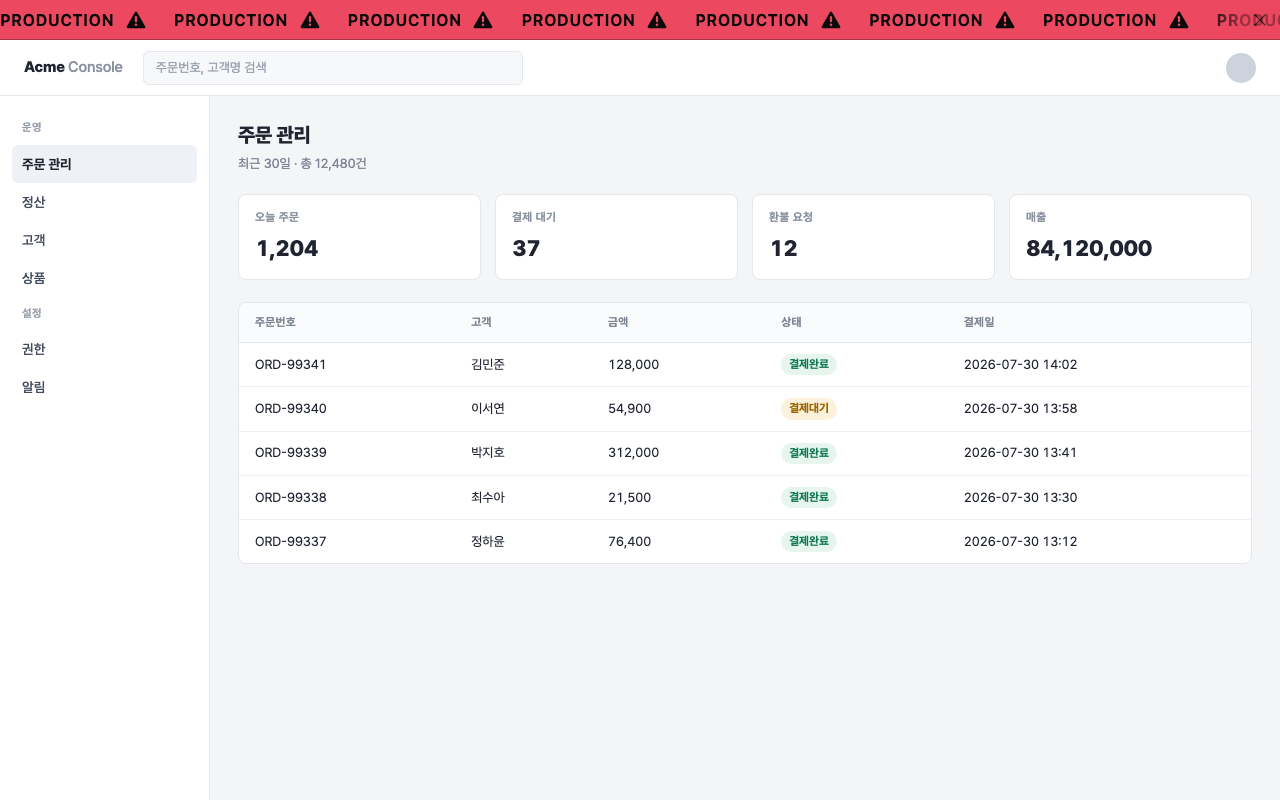
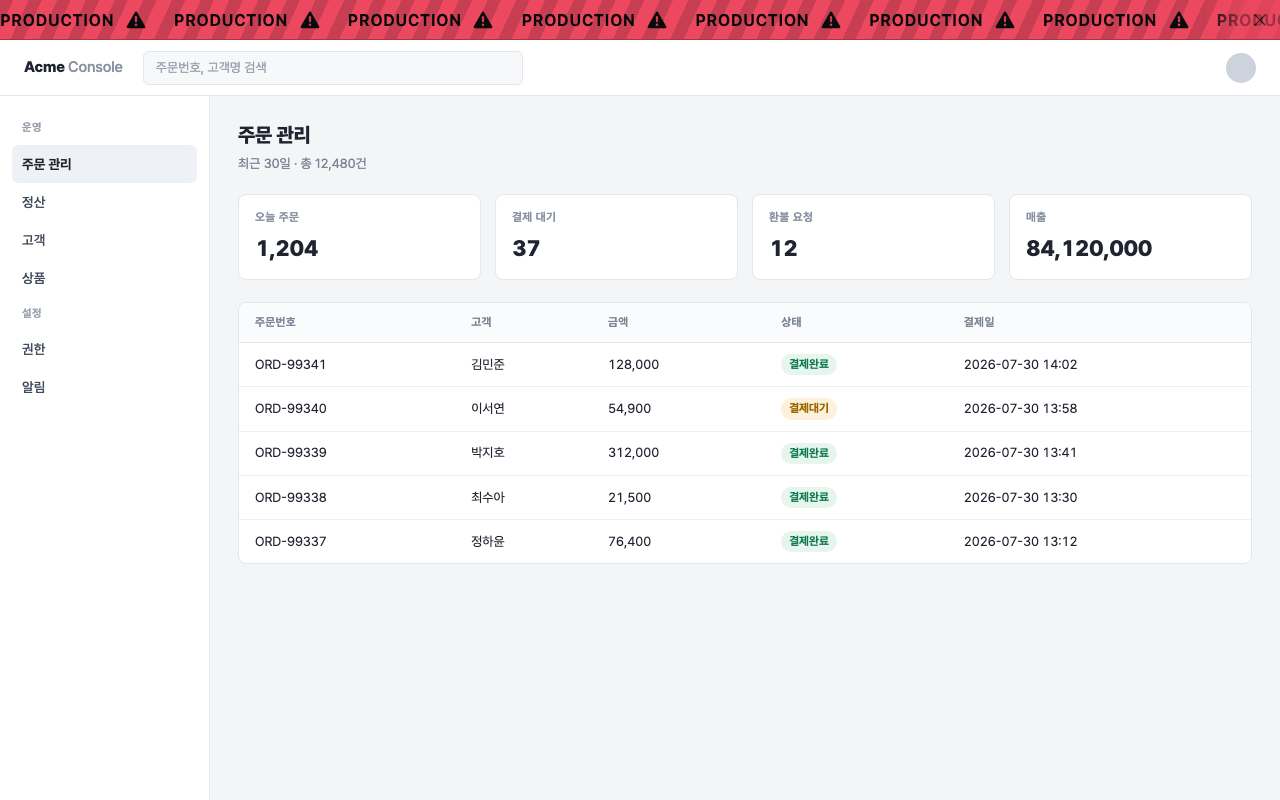
기본값 조정: 배너 높이 40·폰트 16, 사선 패턴 기본 적용, 경고 아이콘 채움형 교체
- 기본 패턴 추가: LOCAL 에 local.* / local-* / *-local.*, DEVELOPMENT 에 dev-*
- 경고 아이콘을 채움형 삼각형으로 교체 (mask 로 느낌표를 뚫어 배경색이 비침)
- 패턴 매칭 유닛 테스트 추가 (test/match.test.js, 43+14 케이스)
- 스토어 스크린샷·프로모 타일을 새 기본값으로 재생성

Changed region(s): [[0.0, 0.0, 0.9688, 0.0625]]

diff --git a/test/match.test.js b/test/match.test.js
@@ -1,0 +1,116 @@
+/*
+ * URL 패턴 매칭 유닛 테스트.
+ * 실행: node test/match.test.js
+ */
+const path = require('path');
+const LIB = path.join(__dirname, '..', 'src', 'lib');
+
+require(path.join(LIB, 'defaults.js'));
+require(path.join(LIB, 'match.js'));
+
+const M = globalThis.EnvBannerMatch;
+const D = globalThis.EnvBannerDefaults;
+
+let fail = 0;
+
+function expectMatch(pattern, url, expected) {
+  const got = M.testPattern(url, pattern);
+  const ok = got === expected;
+  if (!ok) fail++;
+  console.log(`${ok ? 'PASS' : 'FAIL'}  ${pattern.padEnd(24)} ${url.padEnd(40)} → ${got}`);
+}
+
+function expectEnv(url, expected) {
+  const found = M.find(url, D.DEFAULT_ENVIRONMENTS);
+  const label = found ? found.env.label : null;
+  const ok = label === expected;
+  if (!ok) fail++;
+  console.log(
+    `${ok ? 'PASS' : 'FAIL'}  ${url.padEnd(44)} → ${String(label)}` +
+      (ok ? '' : `  (기대 ${expected})`)
+  );
+}
+
+console.log('── 패턴 문법 ──');
+[
+  ['localhost', 'http://localhost:3000/app', true],
+  ['localhost', 'https://localhost/', true],
+  ['localhost', 'http://localhost', true],
+  ['localhost', 'https://mylocalhost.com/', false],
+  ['localhost', 'https://localhost.evil.com/', false],
+  ['localhost:3000', 'http://localhost:3000/x', true],
+  ['localhost:3000', 'http://localhost:3001/x', false],
+  ['127.0.0.1', 'http://127.0.0.1:8080/', true],
+  ['127.0.0.1', 'http://127.0.0.15/', false],
+  ['*.localhost', 'http://api.localhost:3000/', true],
+  ['*.localhost', 'http://localhost:3000/', true],
+
+  // local 계열 — 하이픈 위치별
+  ['local.*', 'https://local.acme.com/', true],
+  ['local.*', 'http://localhost:3000/', false],
+  ['local.*', 'https://mylocal.acme.com/', false],
+  ['local-*', 'https://local-api.acme.com/', true],
+  ['local-*', 'http://localhost/', false],
+  ['*-local.*', 'https://admin-local.acme.com/', true],
+  ['*-local.*', 'https://local.acme.com/', false],
+
+  // dev 계열
+  ['dev.*', 'https://dev.acme.com/', true],
+  ['dev.*', 'https://develop.acme.com/', false],
+  ['dev.*', 'https://api.dev.acme.com/', false],
+  ['dev-*', 'https://dev-api.acme.com/', true],
+  ['dev-*', 'https://dev.acme.com/', false],
+  ['*-dev.*', 'https://api-dev.acme.com/', true],
+  ['*.dev.*', 'https://api.dev.acme.com/', true],
+  ['*.dev.*', 'https://dev.acme.com/', true],
+  // 끝이 * 인 패턴은 뒤에 무엇이 붙어도 매칭된다 (열린 패턴의 성질)
+  ['*.dev.*', 'https://dev.acme.com.evil.io/', true],
+  // 끝까지 적으면 서픽스가 붙은 유사 도메인을 막는다
+  ['*.dev.acme.com', 'https://api.dev.acme.com/', true],
+  ['*.dev.acme.com', 'https://dev.acme.com.evil.io/', false],
+
+  // scheme·경로·정규식
+  ['https://example.com/admin/*', 'https://example.com/admin/users', true],
+  ['https://example.com/admin/*', 'https://example.com/', false],
+  ['https://example.com/admin/*', 'http://example.com/admin/users', false],
+  ['example.com/admin/*', 'http://example.com/admin/users', true],
+  ['acme.co.kr', 'https://acme.co.kr/', true],
+  ['acme.co.kr', 'https://www.acme.co.kr/', false],
+  ['*.acme.co.kr', 'https://www.acme.co.kr/', true],
+  ['/^https:\\/\\/\\w+\\.corp\\./', 'https://intra.corp.acme/', true],
+  ['/^https:\\/\\/\\w+\\.corp\\./', 'http://intra.corp.acme/', false]
+].forEach((c) => expectMatch(c[0], c[1], c[2]));
+
+console.log('');
+console.log('── 기본 환경 매칭 (배열 순서 = 우선순위) ──');
+[
+  ['http://localhost:5173/', 'LOCAL'],
+  ['http://127.0.0.1:8000/', 'LOCAL'],
+  ['https://local.acme.com/', 'LOCAL'],
+  ['https://local-api.acme.com/', 'LOCAL'],
+  ['https://admin-local.acme.com/', 'LOCAL'],
+  ['https://dev.acme.com/', 'DEVELOPMENT'],
+  ['https://dev-api.acme.com/', 'DEVELOPMENT'],
+  ['https://dev-admin.boncaremall.com/', 'DEVELOPMENT'],
+  ['https://boncaremall.com/', null],
+  ['https://api-dev.acme.com/', 'DEVELOPMENT'],
+  ['https://api.dev.acme.com/', 'DEVELOPMENT'],
+  ['https://stg.acme.com/', 'DEVELOPMENT'],
+  // local 이 dev 보다 앞이므로 둘 다 걸리면 LOCAL 이 이긴다
+  ['https://dev-local.acme.com/', 'LOCAL'],
+  // 운영은 기본 패턴이 비어 있어 아무 환경에도 걸리지 않는다
+  ['https://acme.com/', null]
+].forEach((c) => expectEnv(c[0], c[1]));
+
+console.log('');
+console.log('── 패턴 추천 (팝업) ──');
+const suggested = M.suggestPatterns('https://admin.dev.acme.co.kr:8443/board/list');
+console.log(suggested.join('  '));
+if (suggested.includes('*.co.kr')) {
+  console.log('FAIL  등록 불가한 상위 도메인이 추천되었습니다');
+  fail++;
+}
+
+console.log('');
+console.log(fail === 0 ? '전체 통과' : `실패 ${fail}건`);
+process.exit(fail === 0 ? 0 : 1);

diff --git a/src/lib/defaults.js b/src/lib/defaults.js
@@ -20,7 +20,7 @@
     direction: 'left',    // left | right
     gap: 28,              // 반복 아이템 간격(px)
     showWarning: true,    // 경고 아이콘
-    stripes: false,       // 사선 패턴
+    stripes: true,        // 사선 패턴
     pushContent: true,    // 문서 흐름을 배너 높이만큼 밀어내기
     offsetFixed: true,    // 사이트의 고정 헤더도 함께 내리기
     pauseOnHover: true,
@@ -34,7 +34,15 @@
       enabled: true,
       bg: '#34b27c',
       fg: '#0a0a0a',
-      patterns: ['localhost', '127.0.0.1', '0.0.0.0', '*.localhost']
+      patterns: [
+        'localhost',
+        '127.0.0.1',
+        '0.0.0.0',
+        '*.localhost',
+        'local.*',
+        'local-*',
+        '*-local.*'
+      ]
     },
     {
       id: 'development',
@@ -42,7 +50,7 @@
       enabled: true,
       bg: '#f5a312',
       fg: '#0a0a0a',
-      patterns: ['dev.*', '*.dev.*', '*-dev.*', 'stg.*', '*.stg.*']
+      patterns: ['dev.*', 'dev-*', '*.dev.*', '*-dev.*', 'stg.*', '*.stg.*']
     },
     {
       id: 'production',

diff --git a/test/preview.html b/test/preview.html
@@ -61,9 +61,9 @@
     D.DEFAULT_ENVIRONMENTS.forEach((env) => row(env.label + '  ' + env.bg, env, base));
 
     row(
-      'STAGING  사선 패턴 · 높이 34 · 속도 90',
+      'STAGING  사선 끔 · 높이 28 · 속도 90',
       { id: 's', label: 'STAGING', enabled: true, bg: '#3d8bf5', fg: '#0a0a0a', patterns: [] },
-      Object.assign({}, base, { stripes: true, height: 34, fontSize: 13, speed: 90 })
+      Object.assign({}, base, { stripes: false, height: 28, fontSize: 12, speed: 90 })
     );
 
     row(

diff --git a/README.md b/README.md
@@ -18,8 +18,8 @@
 
 | 환경 | 색 | 기본 패턴 |
 |---|---|---|
-| LOCAL | `#34b27c` | `localhost` `127.0.0.1` `0.0.0.0` `*.localhost` |
-| DEVELOPMENT | `#f5a312` | `dev.*` `*.dev.*` `*-dev.*` `stg.*` `*.stg.*` |
+| LOCAL | `#34b27c` | `localhost` `127.0.0.1` `0.0.0.0` `*.localhost` `local.*` `local-*` `*-local.*` |
+| DEVELOPMENT | `#f5a312` | `dev.*` `dev-*` `*.dev.*` `*-dev.*` `stg.*` `*.stg.*` |
 | PRODUCTION | `#ec4860` | (비어 있음 — 직접 등록) |
 
 ## 쓰는 방법
@@ -36,16 +36,27 @@
 |---|---|---|
 | `localhost` | `http://localhost:3000/app`, `https://localhost/` | `https://mylocalhost.com/` |
 | `localhost:3000` | `http://localhost:3000/x` | `http://localhost:3001/x` |
-| `*.dev.example.com` | `api.dev.example.com`, `dev.example.com` | `dev.example.com.evil.io` |
 | `dev.*` | `https://dev.example.com/` | `https://api.dev.example.com/` |
+| `dev-*` | `https://dev-admin.example.com/` | `https://dev.example.com/` |
 | `*-dev.*` | `https://api-dev.example.com/` | |
+| `*.dev.example.com` | `api.dev.example.com`, `dev.example.com` | `dev.example.com.evil.io` |
 | `example.com/admin/*` | `http://example.com/admin/users` | `http://example.com/` |
 | `https://example.com/admin/*` | https 만 | `http://example.com/admin/users` |
 | `/^https:\/\/\w+\.corp\./` | 슬래시로 감싸면 정규식 그대로 사용 | |
 
 - scheme을 생략하면 모든 scheme, 포트를 생략하면 모든 포트에 매칭됩니다.
 - 경로를 생략하면 해당 호스트의 모든 경로에 매칭됩니다.
+- 호스트 자리의 `*`는 하이픈·점 위치를 구분합니다. `dev.*`는 `dev.`로 시작하는 것만,
+  `dev-*`는 `dev-`로 시작하는 것만 잡습니다.
+- **끝이 `*`인 패턴은 열려 있습니다.** `dev.*`는 `dev.example.com.other.io`도 매칭합니다.
+  범위를 정확히 제한하려면 `*.dev.example.com`처럼 끝까지 적으세요.
 - 여러 환경에 걸리면 **설정 화면에서 위에 있는 환경**이 이깁니다. `↑` `↓`로 우선순위를 조정하세요.
+
+패턴 매칭은 유닛 테스트로 고정되어 있습니다.
+
+```bash
+node test/match.test.js
+```
 
 ## 배너가 페이지를 가리지 않게 하는 방식
 
